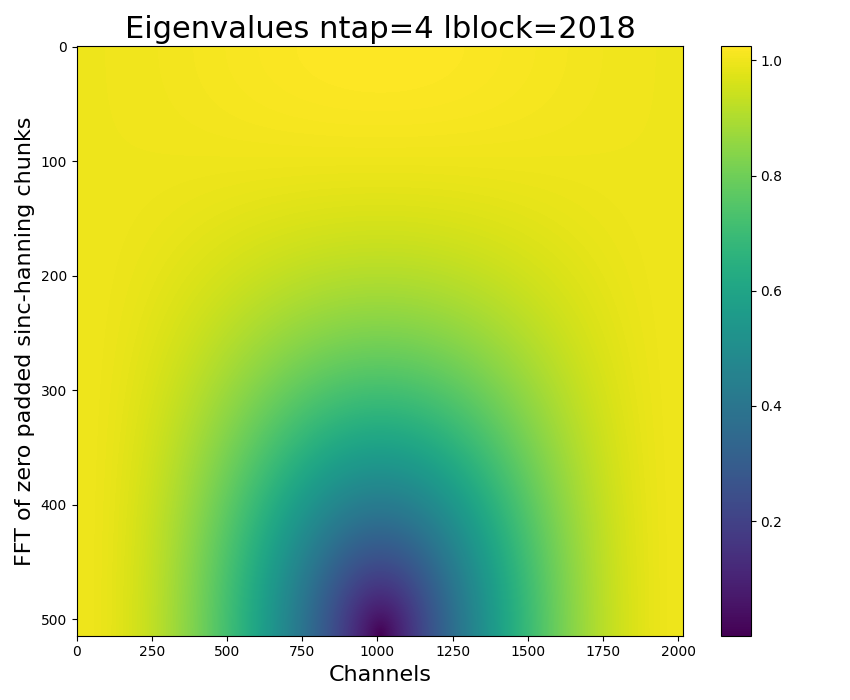
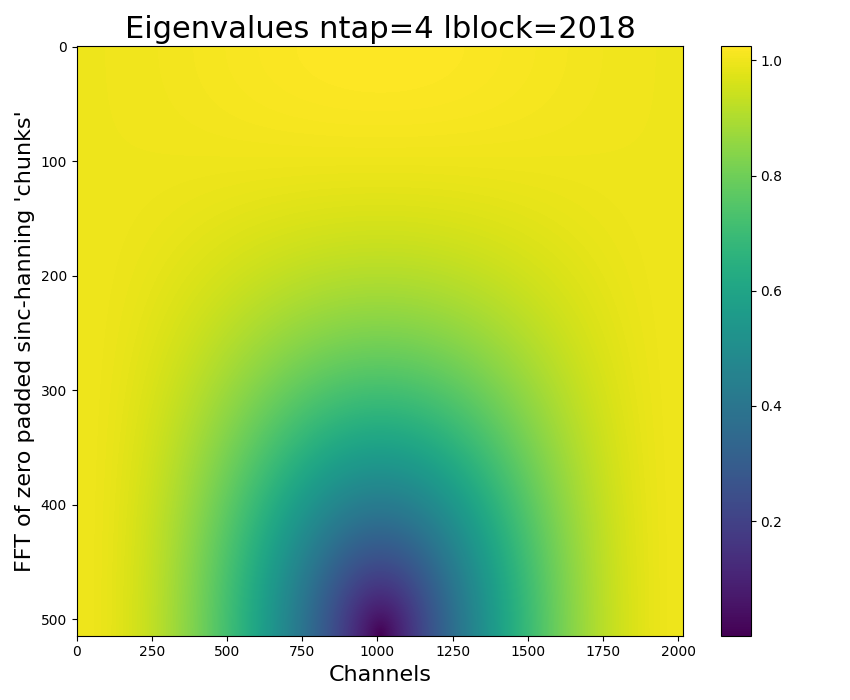
tidied helper

Changed region(s): [[0.0, 0.27, 0.0612, 0.81]]

diff --git a/helper.py b/helper.py
@@ -9,41 +9,42 @@ import numpy as np
 from numpy.fft import fft, fftshift, ifft, ifftshift, rfft, irfft
 
 
-#%% fourier transforms and their inverses
-def window_to_box(window):
-    return fftshift(fft(fftshift(window))) # gets taller
-
-def box_to_window(box):
-    return ifftshift(ifft(ifftshift(box))) # gets smaller
-
-def window_pad_to_box(window,pad_factor=4.0):
-    # pad the window then fft
-    padded_window = np.concatenate([window,np.zeros(int(len(window)*pad_factor))])
-    return window_to_box(padded_window) 
-
-def box_to_window_pad(large_box,len_win):
-    return box_to_window(large_box)[:len_win]
-
-def window_pad_to_box_rfft(window,pad_factor=4.0):
-    padded_window = np.concatenate([window,np.zeros(int(len(window)*pad_factor))])
-    return rfft(fftshift(padded_window))
-
-def box_to_window_pad_rfft(large_box,len_win):
-    return ifftshift(irfft(large_box))[:len_win]
-
-#%% basic windows
-
-def sinc_window(ntap=4, lblock=2048):
-    # i don't like np.arange, it's vulnerable to failure, 
-    # should be linspace, but this is how R.S. implemented it, and it'll give a (tiny bit) different array
-    return np.sinc(np.arange(-ntap/2,ntap/2,1/lblock)) 
+# #%% fourier transforms and their inverses
+# def window_to_box(window):
+#     return fftshift(fft(fftshift(window))) # gets taller
+# 
+# def box_to_window(box):
+#     return ifftshift(ifft(ifftshift(box))) # gets smaller
+# 
+# def window_pad_to_box(window,pad_factor=4.0):
+#     # pad the window then fft
+#     padded_window = np.concatenate([window,np.zeros(int(len(window)*pad_factor))])
+#     return window_to_box(padded_window) 
+# 
+# def box_to_window_pad(large_box,len_win):
+#     return box_to_window(large_box)[:len_win]
+# 
+# def window_pad_to_box_rfft(window,pad_factor=4.0):
+#     padded_window = np.concatenate([window,np.zeros(int(len(window)*pad_factor))])
+#     return rfft(fftshift(padded_window))
+# 
+# def box_to_window_pad_rfft(large_box,len_win):
+#     return ifftshift(irfft(large_box))[:len_win]
+# 
+# #%% basic windows
+# 
+# def sinc_window(ntap=4, lblock=2048):
+#     # i don't like np.arange, it's vulnerable to failure, 
+#     # should be linspace, but this is how R.S. implemented it, and it'll give a (tiny bit) different array
+#     return np.sinc(np.arange(-ntap/2,ntap/2,1/lblock)) 
 
 def sinc_hanning(ntap=4, lblock=2048):
     # different form sinc_window and sinc_hamming, uses numpy not jax.numpy
     return np.hanning(ntap*lblock) * np.sinc(np.linspace(-ntap/2, ntap/2, lblock*ntap))
 
-def sinc_hamming(ntap=4, lblock=2048):
-    return np.hamming(ntap*lblock) * sinc_window(ntap, lblock)
+# def sinc_hamming(ntap=4, lblock=2048):
+#     return np.hamming(ntap*lblock) * sinc_window(ntap, lblock)
+# 
 
 #%% helpers for eigenvalue displays
 def chop_win(w, ntap=4, lblock=2048):
@@ -56,21 +57,21 @@ def zero_padding(w2d, n_zeros=1024):
     return np.concatenate([w2d, pad], axis=1)
 
 
-def window_to_matrix_eig(w, ntap=4, lblock=2048, zero_pad_len=1024):
-    w2d = chop_win(w, ntap, lblock)
-    w2d_padded = zero_padding(w2d, zero_pad_len)
-    ft = np.apply_along_axis(fft, 1, w2d_padded)
-    return ft
-
-def matrix_eig_to_window(ft_w2d, ntap=4):
-    w2d_padded = np.apply_along_axis(ifft, 1, ft_w2d)
-    w2d = w2d_padded[:, :ntap]
-    return np.real(np.concatenate(w2d.T))
-
-def matrix_eig_to_window_complex(ft_w2d, ntap=4):
-    w2d_padded = np.apply_along_axis(ifft, 1, ft_w2d)
-    w2d = w2d_padded[:, :ntap]
-    return np.concatenate(w2d.T)
+# def window_to_matrix_eig(w, ntap=4, lblock=2048, zero_pad_len=1024):
+#     w2d = chop_win(w, ntap, lblock)
+#     w2d_padded = zero_padding(w2d, zero_pad_len)
+#     ft = np.apply_along_axis(fft, 1, w2d_padded)
+#     return ft
+# 
+# def matrix_eig_to_window(ft_w2d, ntap=4):
+#     w2d_padded = np.apply_along_axis(ifft, 1, ft_w2d)
+#     w2d = w2d_padded[:, :ntap]
+#     return np.real(np.concatenate(w2d.T))
+# 
+# def matrix_eig_to_window_complex(ft_w2d, ntap=4):
+#     w2d_padded = np.apply_along_axis(ifft, 1, ft_w2d)
+#     w2d = w2d_padded[:, :ntap]
+#     return np.concatenate(w2d.T)
 
 def r_window_to_matrix_eig(w, ntap=4, lblock=2048, zero_pad_len=1024):
     w2d = chop_win(w, ntap, lblock)
@@ -80,16 +81,16 @@ def r_window_to_matrix_eig(w, ntap=4, lblock=2048, zero_pad_len=1024):
     return rft
 
    
-if __name__ == "__main__":
-    # check that r_window_to_matrix_eig works
-    NTAP = 4
-    LBLOCK = 2048
-    SINC = np.sinc(np.arange(-NTAP/2, NTAP/2, 1/LBLOCK))
-    rft = r_window_to_matrix_eig(SINC)
-    import matplotlib.pyplot as plt 
-    plt.imshow(np.abs(rft.T), aspect="auto")
-    plt.colorbar()
-    plt.show()
+# if __name__ == "__main__":
+#     # check that r_window_to_matrix_eig works
+#     NTAP = 4
+#     LBLOCK = 2048
+#     SINC = np.sinc(np.arange(-NTAP/2, NTAP/2, 1/LBLOCK))
+#     rft = r_window_to_matrix_eig(SINC)
+#     import matplotlib.pyplot as plt 
+#     plt.imshow(np.abs(rft.T), aspect="auto")
+#     plt.colorbar()
+#     plt.show()
 
 
 

diff --git a/plots/four_segments_sinc_hanning.py b/plots/four_segments_sinc_hanning.py
@@ -1,14 +1,13 @@
 # Local import
 import sys
 sys.path.append("..")
-import helper as h
 # Libraries
 import numpy as np
 import matplotlib.pyplot as plt
 
 # `ntap` is the number of taps
 # `lblock` is `2*nchan` which is the number of channels before transform
-ntap, lblock = 4, 2018
+ntap, lblock = 4, 2048
 
 # A sinc array
 sinc = np.sinc(np.linspace(-ntap/2, ntap/2, ntap*lblock))
@@ -43,7 +42,7 @@ plt.xlabel("", fontsize=16)
 plt.ylabel("", fontsize=16)
 plt.tight_layout()
 # Optionally save the figure
-# plt.savefig("four_segments_sinc_hanning.png")
+plt.savefig("four_segments_sinc_hanning.png")
 plt.legend()
 plt.show(block=True)
 

diff --git a/plots/eigenvalues_ntap4_lblock2048.py b/plots/eigenvalues_ntap4_lblock2048.py
@@ -25,7 +25,7 @@ plt.ylabel("FFT of zero padded sinc-hanning 'chunks'", fontsize=16)
 plt.colorbar()
 plt.tight_layout()
 # Optionally save the figure
-# plt.savefig("eigenvalues_ntap4_lblock2048.png")
+plt.savefig("eigenvalues_ntap4_lblock2048.png")
 plt.show(block=True)
 
 

diff --git a/pfb.py b/pfb.py
@@ -5,7 +5,6 @@ Created on 2021.06.04
 Author : Stephen Fay
 """
 
-# import jax.numpy as jnp
 import numpy as np
 import helper as h
 from scipy.fft import rfft,irfft,fft,ifft

diff --git a/README.md b/README.md
@@ -7,7 +7,7 @@ The polyphase filter bank (PFB) is a widely used digital signal processing tool 
 [Link to the article]() 
 
 ## Dependencies / libraries used in scritps:
-- Jax, Autograd and gradient descent
+- Jax, for autograd custom gradient descent functions
 
 The usual suspects
 - Numpy
@@ -21,3 +21,7 @@ The usual suspects
 
 Less urgent todo
 - [ ] Refactor `helper.py` and `constants` to make them simpler (only on the main branch.) 
+
+
+
+
